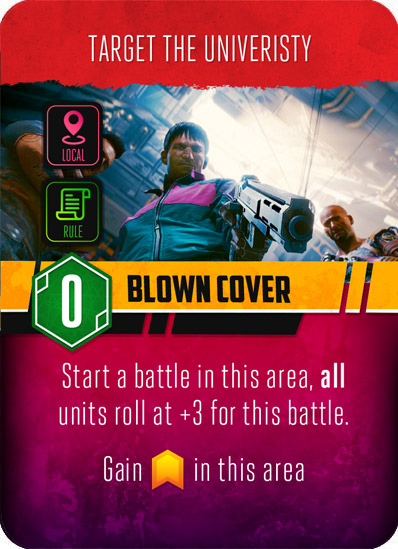
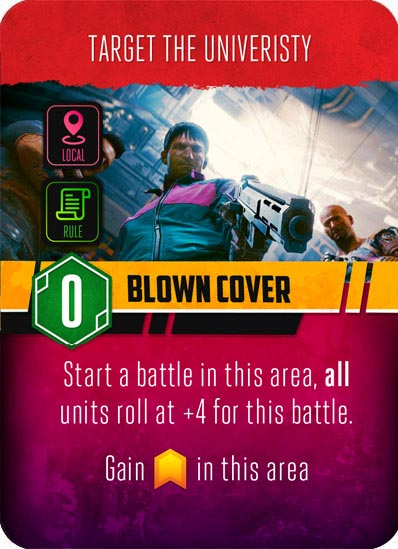
Increase blown cover combat bonus to +4

diff --git a/server/classes/Cards.js b/server/classes/Cards.js
@@ -106,7 +106,7 @@ class BenevolentAI extends Card {
 
 class BlownCover extends Card {
     async handle( faction, area ){
-        await faction.game().battle( area, { attackBonus : 3 } ).catch( error => console.error( error ) );
+        await faction.game().battle( area, { attackBonus : 4 } ).catch( error => console.error( error ) );
     }
 }
 
